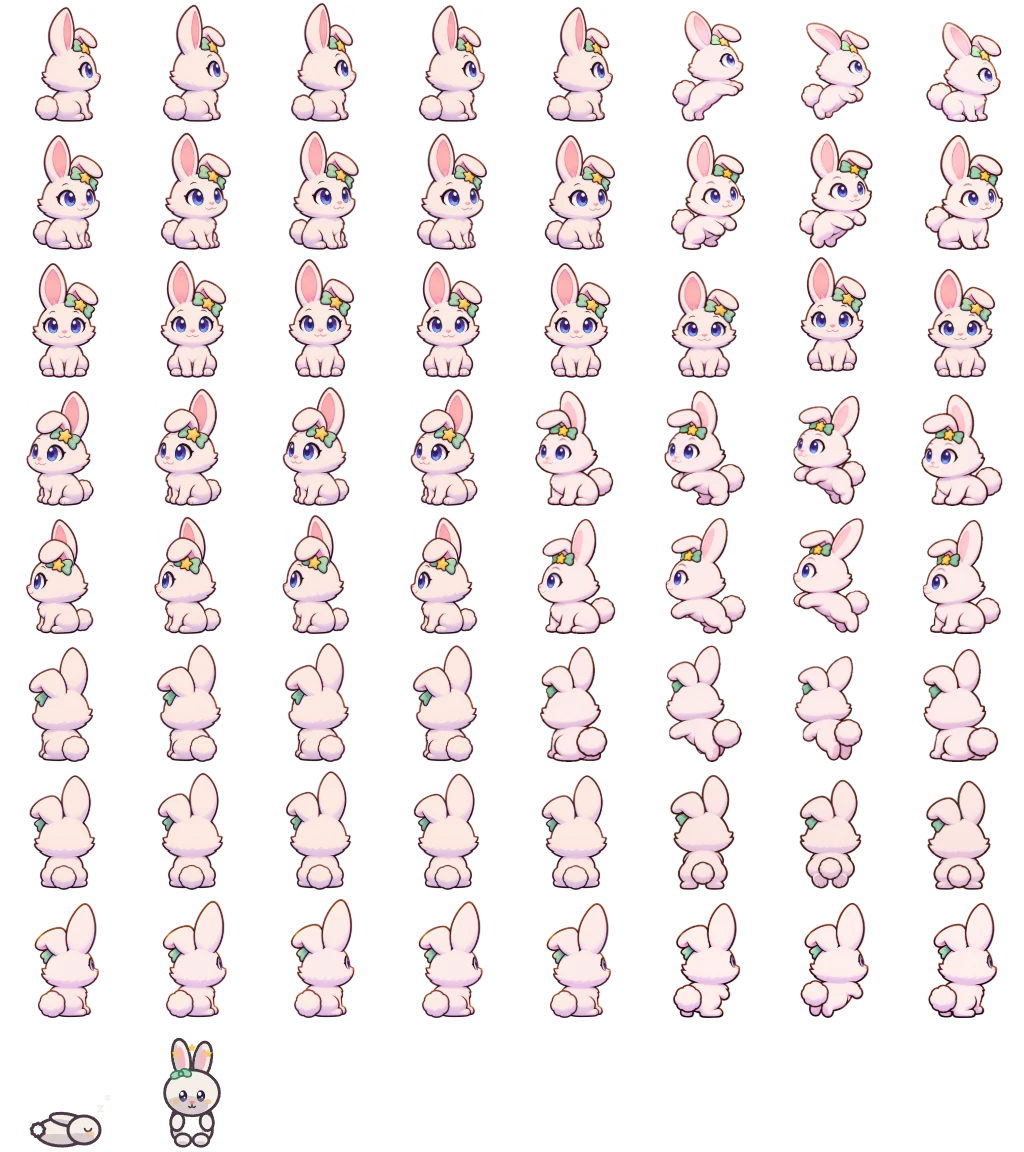
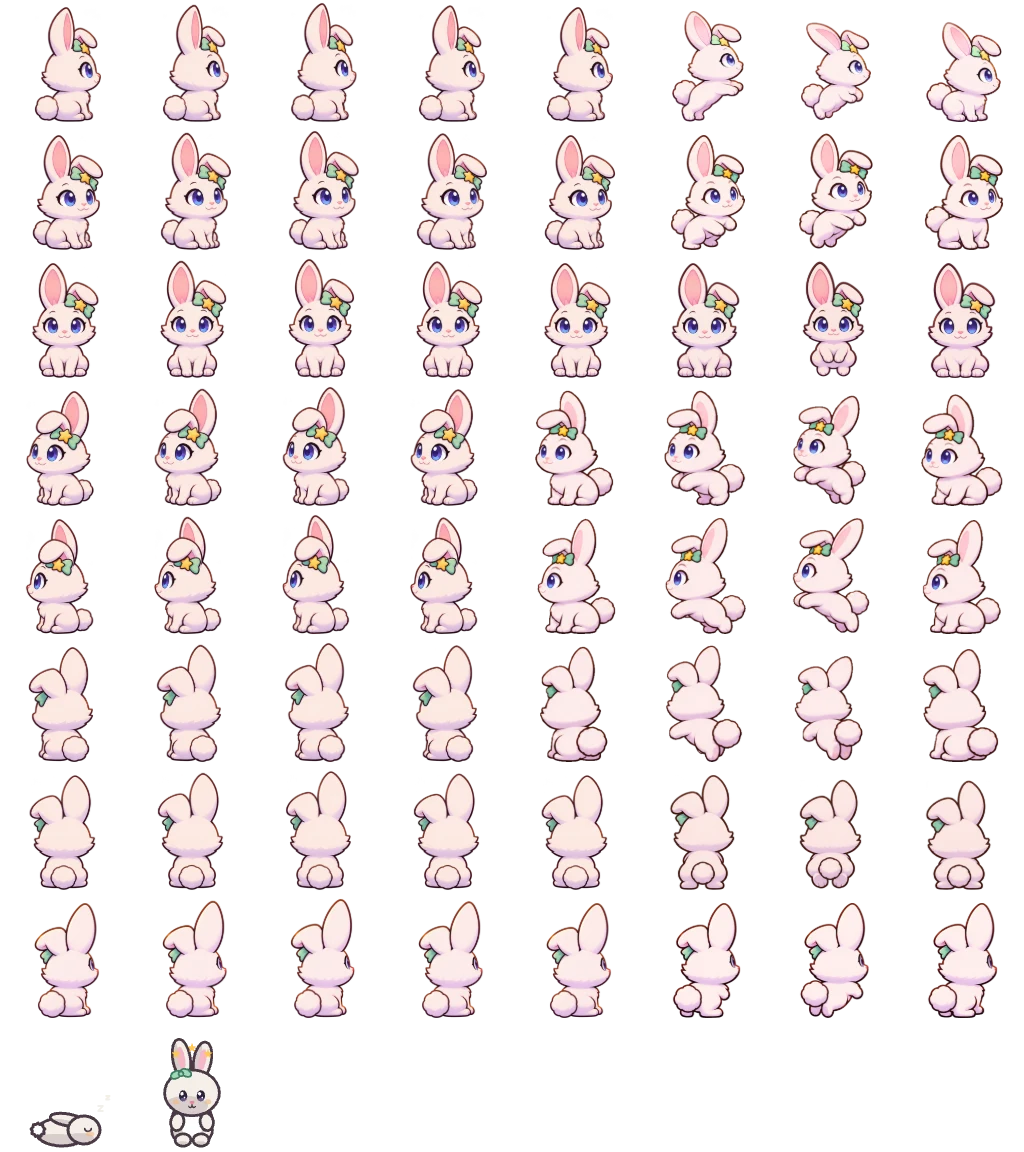
캐릭터 스프라이트: 토리 0° 앞모습 걷기 4장 연결 — 임시 깡충 해제, 토리 걷기 8방향 모두 받은 그림
- ChatGPT 15:36 다시 그림(눈 한 겹 · tori_eye_fix RESULT: ALL OK), 기획 세션 15:50 통과 → Tori_Walk_8D_4Frames_Pack/000_front/
- 점검: f01 = 대기(바이트까지), 눈동자 덩이 2, 눈 높이 292~298, 발끝 494~495(f03 6 뜸), 귀 끝 42~48, 리본 보는 쪽 오른쪽
- tori-8dir 남쪽 걷기 칸 20~23, 트라이얼 390×844 남쪽 걷기 확인, 콘솔 오류 0, 코드 변경 없음
- 받는 폴더 _incoming 정리(얼굴 확인 그림은 sketches로), 점검 기록 notes/000_front_claude_check_26-1124.md, CLAUDE.md·스킬 visual-audio·결정 기록
- 받은 편지 1550 · 기획 세션 15:50 기록(order-art-connect · review-log) 함께

Claude-Session: https://claude.ai/code/session_01HrPbr5mJU6i3pPUacduwos

Changed region(s): [[0.9062, 0.2188, 0.9688, 0.3438], [0.7812, 0.2188, 0.8438, 0.3438], [0.6562, 0.2188, 0.7188, 0.3438]]

diff --git a/CLAUDE.md b/CLAUDE.md
@@ -79,7 +79,7 @@
   - **토리**: 접힌 귀 + 민트 리본(노란 별) = **토리 자신의 왼쪽 귀**(정면 = 보는 쪽 오른쪽, 뒷모습 = 왼쪽). **왼쪽 방향을 뒤집어 만들지 않는다.** 팩 512×512·발끝 496·귀 끝 48, 게임 키 = 귀 끝~발끝 115px(머리 폭 = 루미).
   - **도토**: 대기 팩 512(꼬리 포함 실루엣 가운데로 옴 → 방향별 몸 기준점 `anchorX`), 키 95px(셋 중 가장 작게), 뒤집기 허용.
   - **친구 걷기** = 방향마다 4장, 첫 장 = 그 방향 대기 그림 그대로, 한 바퀴로 이어짐. 박자 f01 f01 · f02 · f03 · f04 f04(토리 6.5칸/초 = 끝까지 밀면 깡충 한 번 약 0.56초, 도토 6칸/초 약 0.6초). 그림 목표: 뜨는 높이 약 6px, 눈 높이 ±6px, 귀 끝 ±15px, 눈은 f01과 같게. **눈 색은 그림 생성으로 고치지 않는다**(다시 그릴 때마다 속눈썹이 바뀜) → 눈 픽셀만 f01 색으로 옮기는 `hand-offs/chatgpt-tori-eye-fix-26-1118-1600/tori_eye_fix.py`를 ChatGPT가 돌려 `RESULT: ALL OK`로.
-  - **받은 상태**(2026-11-18): 토리 대기 8 + 걷기 7방향(45°·90°·135°·180°·225°·270°·315°, 눈 색은 대기와 같게 고침 — 225°·270°·315°는 받은 시트를 Claude가 잘라 맞춤, f01 = 시트 첫 장), **0°만 임시 깡충**(눈 겹침으로 뺌 → 재의뢰서 `hand-offs/chatgpt-tori-front-walk-26-1119-0106/`, 2026-11-19). 90°·270° 머리 출렁임은 목표보다 큼. 점검 `Tori_Walk_8D_4Frames_Pack/notes/eyefix_left_sheet_claude_check.md`. 도토 대기 8 + 걷기 8방향(받은 시트 두 장을 Claude가 잘라 맞춤, 225·270·315°는 뒤집기, f01 = 시트 첫 장 — `Doto_Walk_8D_4Frames_Pack/notes/README_claude.md`). 친구 시트 = `src/art/friendSheet.ts`(`FRIEND_PACKS`), 팩 = `reference/<Tori|Doto>_8_Direction_Pack/`, 점검 기록은 각 팩의 `README_claude.md`·`notes/`.
+  - **받은 상태**(2026-11-18): 토리 대기 8 + 걷기 7방향(45°·90°·135°·180°·225°·270°·315°, 눈 색은 대기와 같게 고침 — 225°·270°·315°는 받은 시트를 Claude가 잘라 맞춤, f01 = 시트 첫 장), **0° 앞모습 걷기 = 2026-11-24 ChatGPT 다시 그림**(재의뢰서 `hand-offs/chatgpt-tori-front-walk-26-1119-0106/` 그대로, 눈 한 겹·`tori_eye_fix.py` RESULT: ALL OK, 기획 세션 15:50 통과 — 이제 8방향 모두 받은 그림). 90°·270° 머리 출렁임은 목표보다 큼. 점검 `Tori_Walk_8D_4Frames_Pack/notes/eyefix_left_sheet_claude_check.md`. 도토 대기 8 + 걷기 8방향(받은 시트 두 장을 Claude가 잘라 맞춤, 225·270·315°는 뒤집기, f01 = 시트 첫 장 — `Doto_Walk_8D_4Frames_Pack/notes/README_claude.md`). 친구 시트 = `src/art/friendSheet.ts`(`FRIEND_PACKS`), 팩 = `reference/<Tori|Doto>_8_Direction_Pack/`, 점검 기록은 각 팩의 `README_claude.md`·`notes/`.
 - **적**: 호스틸 박쥐 `bat`·웨어울프 `werewolf`·뱀파이어 `vampire` / 잃어버린 주민 개구리 `frog`·고슴도치 `hedgehog`·레서판다 `redpanda` / 패시브 올빼미 `owl`·나방 `moth`·반딧불이 `firefly` / 빛을 잃은 친구 `tori-lost`·`doto-lost` / 보스 노월 `witch`. 빛을 잃은 모습 = 보랏빛 눈의 검은 털뭉치.
 - **아이템**(`items.json`): 바람 깃털 `wind_feather` · 별 목걸이 `star_necklace` · 반딧불 병 `firefly_jar` · 황금 도토리 `golden_acorn` · 빛의 부적 `light_charm`.
 - 빠진 것: 바루·몽이 등 옛 캐릭터, 장착물, 시너지·대광원, 손에 든 등불, 여우·삵.
@@ -91,7 +91,7 @@
 - **테스트**(홈): 고르기 창 = 트라이얼(루미·토리·도토 칸, 잠긴 친구도 — 그 판에서만) + 튜토리얼 + '밤 n 체험'(1·3·6·9·10, 그 밤의 평균 빛 레벨 ★1·6·8·9·10으로 시작 — 밤 10은 토리·도토를 구한 것으로 쳐 노월 확정, 테스트 판에만, 맵 고르기). 테스트 판은 진행·지난 밤들에 남지 않는다.
 - **HUD**: 위 = 달·"밤 {n} · mm:ss"·진행 바·점수(런 누적)·콤보·★레벨·✦별가루. 아래 = 하트·HP·LP('HP'·'LP' 글자)·광원 HP·켠 등불 수·일시정지. 17:9보다 좁은 가로는 판을 바닥 가운데·스틱을 위로, 폰 가로는 스틱을 안쪽으로. 화면 밖 적 = 라벤더 화살표, 꺼진 등불·위험·빛을 잃은 친구 = 노란 화살표. 판 위(2026-11-24): 맞은 적 발밑 **빛 게이지**(호스틸·잃어버린 주민만, HP가 남을 때 1.2초, 받은 빛만큼 호박빛이 차오름 — `game.json enemyGauge`) · 하트 1 + HP ≤ 50%면 루미 발밑 **위험 링**(EMBER 숨쉬기, 무적 중 끔 — `dangerRing`) · 주인공 머리 위 HP는 두지 않음.
 - **아트**: "어두운 밤, 따뜻한 빛" — 남색 + 호박빛, 작은 동물들의 밤 마을(어두운 겹·켜진 겹을 빛 마스크로). 공간감 기준 「달빛 숲의 등불지기 고양이」(`reference/ChatGPT-Images/`). 분위기 참고 Stray·OneShot, Cult of the Lamb 2.5D, Undertale 자비, 브롤스타즈 조작·맵.
-- **그림 규칙**: 실제 그림 = ChatGPT, 그때까지 Claude 임시 코드 그림(`src/art/*` → `npm run assets`), ChatGPT 그림이 오면 같은 키로 교체. **받은 것(2026-11-24 ChatGPT, 각 팩 `README_claude.md`)**: 행렬 패시브 셋 — 올빼미(걷기 옆·앞·뒤 각 4, 6칸/초) · 나방·반딧불이(나는 종: 날갯짓 옆 4, 8칸/초, 몸 가운데 앵커), 웅크림 = 정면 한 장 전 방향 공용·뒤집지 않음, 도망 = 옆 2장 가로 부호로 뒤집기(올빼미·반딧불이 8 · 나방 6칸/초) — `art-src/enemies/<id>.*`·`<id>-cower`·`<id>-flee` · 노월 두 모습(`witch`·`witch-angry` 0~3 대기·4~5 시전·6 진정 공용, 진정 순간 부활 빛기둥 한 번) · UI 아이콘 v3(`public/ui-icons/`, `src/ui/v3Icons.ts` — HUD ✦·★ 선, 아침 요약·상점은 산 것만 채움 `-on`, 두 길 점은 선만) · 2-B 아침 배경(세로·가로, cover — '집으로' 결과도 같은 하늘)·새 지역 카드 B·C·이야기 카드 2·4(`art-src/backgrounds/`) · 2-C 호스틸 셋 — 박쥐(두 모습 — 돌아갈 때 `bat-true`로 제자리 교체, 몸을 돌리지 않고 가로로만 뒤집음)·웨어울프(앞·뒤 ±2px 출렁임)·뱀파이어(칸 96, 받은 그림의 몸 자리를 Claude가 눈 기준으로 옮긴 사본) · 중앙 광원(밝음·낮음·꺼짐 = 칸 0·1·2) · 등불 스테이션(켜짐·약함·꺼짐, 바닥 = 기준점) · 스폰 아이템 아이콘 5종(바닥·HUD·선택 화면 같은 그림) · 잃어버린 주민 셋 두 모습(옆·앞·뒤 모두 — 개구리 앞·뒤 11-24 15:4x, 빛을 잃은 뒷모습은 라벤더 외곽 빛 수정본) — 2-C 팩은 `ArtSpec.register: 'canvas'`(캔버스 앵커 그대로). 홍보 키 비주얼 `reference/Key_Visual_v3/`는 게임에 넣지 않음. 격자 소품(2026-11-24 15:4x, `reference/Map_Props_Pack/` — 바위·술통·집·건초·풀숲·울타리 테마 셋 + 강·다리 조각, 없는 테마는 빌려 색조, `src/art/props.ts`·`MapProps.ts`). 아직 임시(코드 그림 = 폴백, 오는 대로 교체): 토리 앞모습(0°) 걷기(임시 깡충 — ChatGPT 재의뢰 11-24 15:07, 15:36 도착·미리 잼 통과, 기획 검토 대기)·바닥(연결 중)·이야기 카드 1·3·5·6(만들지 않음 — 일괄 지시서). 연결 지시는 `docs/plan/order-art-connect-26-1124.md`에 쌓임. **쓰러짐 = 잠듦**(2026-11-24): X 눈 칸 쓰지 않음, 잠든 모습 = ChatGPT `reference/Sleep_Pack/`(11-24 도착, `src/art/sleepSheet.ts`가 8방향 시트와 같은 축척으로 — 루미·도토는 쓰러진 방향대로 뒤집기, 토리는 안 뒤집음, 그림이 없으면 대기 그림을 눕혀 흐리게), **'z' 같은 글자는 띄우지 않는다**(라이언). 그림 마감 없음(8절 마감 지침). v3 브리프 이름 ↔ 게임 자리 = `NIGHT_RUN.md` 13절 끝.
+- **그림 규칙**: 실제 그림 = ChatGPT, 그때까지 Claude 임시 코드 그림(`src/art/*` → `npm run assets`), ChatGPT 그림이 오면 같은 키로 교체. **받은 것(2026-11-24 ChatGPT, 각 팩 `README_claude.md`)**: 행렬 패시브 셋 — 올빼미(걷기 옆·앞·뒤 각 4, 6칸/초) · 나방·반딧불이(나는 종: 날갯짓 옆 4, 8칸/초, 몸 가운데 앵커), 웅크림 = 정면 한 장 전 방향 공용·뒤집지 않음, 도망 = 옆 2장 가로 부호로 뒤집기(올빼미·반딧불이 8 · 나방 6칸/초) — `art-src/enemies/<id>.*`·`<id>-cower`·`<id>-flee` · 노월 두 모습(`witch`·`witch-angry` 0~3 대기·4~5 시전·6 진정 공용, 진정 순간 부활 빛기둥 한 번) · UI 아이콘 v3(`public/ui-icons/`, `src/ui/v3Icons.ts` — HUD ✦·★ 선, 아침 요약·상점은 산 것만 채움 `-on`, 두 길 점은 선만) · 2-B 아침 배경(세로·가로, cover — '집으로' 결과도 같은 하늘)·새 지역 카드 B·C·이야기 카드 2·4(`art-src/backgrounds/`) · 2-C 호스틸 셋 — 박쥐(두 모습 — 돌아갈 때 `bat-true`로 제자리 교체, 몸을 돌리지 않고 가로로만 뒤집음)·웨어울프(앞·뒤 ±2px 출렁임)·뱀파이어(칸 96, 받은 그림의 몸 자리를 Claude가 눈 기준으로 옮긴 사본) · 중앙 광원(밝음·낮음·꺼짐 = 칸 0·1·2) · 등불 스테이션(켜짐·약함·꺼짐, 바닥 = 기준점) · 스폰 아이템 아이콘 5종(바닥·HUD·선택 화면 같은 그림) · 잃어버린 주민 셋 두 모습(옆·앞·뒤 모두 — 개구리 앞·뒤 11-24 15:4x, 빛을 잃은 뒷모습은 라벤더 외곽 빛 수정본) — 2-C 팩은 `ArtSpec.register: 'canvas'`(캔버스 앵커 그대로). 홍보 키 비주얼 `reference/Key_Visual_v3/`는 게임에 넣지 않음. 격자 소품(2026-11-24 15:4x, `reference/Map_Props_Pack/` — 바위·술통·집·건초·풀숲·울타리 테마 셋 + 강·다리 조각, 없는 테마는 빌려 색조, `src/art/props.ts`·`MapProps.ts`). 토리 앞모습(0°) 걷기(11-24 15:5x — 캐릭터 스프라이트 빈자리 없음). 아직 임시(코드 그림 = 폴백, 오는 대로 교체): 바닥(연결 중)·이야기 카드 1·3·5·6(만들지 않음 — 일괄 지시서). 연결 지시는 `docs/plan/order-art-connect-26-1124.md`에 쌓임. **쓰러짐 = 잠듦**(2026-11-24): X 눈 칸 쓰지 않음, 잠든 모습 = ChatGPT `reference/Sleep_Pack/`(11-24 도착, `src/art/sleepSheet.ts`가 8방향 시트와 같은 축척으로 — 루미·도토는 쓰러진 방향대로 뒤집기, 토리는 안 뒤집음, 그림이 없으면 대기 그림을 눕혀 흐리게), **'z' 같은 글자는 띄우지 않는다**(라이언). 그림 마감 없음(8절 마감 지침). v3 브리프 이름 ↔ 게임 자리 = `NIGHT_RUN.md` 13절 끝.
 - **둥근 버튼·배지 규칙**: 남색 유리 원(#34396C → #14152E) + 얇은 밝은 테두리 + 굵고 끝이 둥근 선 아이콘(연한 종이색), 켜짐 = 호박 사탕 채움 + 남색 아이콘, 놓으면 부드럽게 제자리(cubic-bezier(0.16, 1, 0.3, 1)). 기준 `.pull-refresh`·`refreshIcon`·`.icon-button`. 알약 버튼(주요 = 호박, 보조 = 어두운 유리), 최소 48px.
 - **팔레트**: NIGHT `#1B1F3B` · DUSK `#2A2F5A` · PREDAWN `#120F24` · DAWN `#F2B880` · AMBER `#FFC857` · MINT `#9ED9B5` · LAVENDER `#A89CD9` · EMBER `#FF8C5A` · PAPER `#F6F1E7` · ASH `#8A8FA8`. 폰트 Pretendard → Noto Sans KR.
 - **늘 어두운 화면**: `color-scheme: only dark`(+ index.html meta) — 브라우저·기기 야간 모드가 색을 바꾸지 않게(2026-11-20). **설정 창**: 낮은 가로(휴대폰)는 위 한 줄에 제목·닫기, 아래는 PC처럼 두 칸(넘치면 위아래로, 글자 px 최소값 16 — 폭 640 아래는 한 칸). 모든 화면에서 배경음악·효과음 슬라이더 왼쪽 끝을 맞추고(글자 칸 5em), 닉네임 칸·버튼은 칸 폭을 넘지 않는다(2026-11-21).

diff --git a/docs/skill/light-defense-game/references/visual-audio.md b/docs/skill/light-defense-game/references/visual-audio.md
@@ -78,7 +78,7 @@
 - 2026-11-18부터 ChatGPT 그림이다: 정지 8방향, 초상, 걷기.
   - 걷기는 방향마다 4장이고, 박자는 f01 f01 · f02 · f03 · f04 f04다.
 - **토리**: 팩 `reference/Tori_8_Direction_Pack/`, 게임 키 115px.
-  - 걷기 7방향이 들어왔다. 0° 앞모습만 대기 그림으로 만든 임시 깡충이다.
+  - 걷기 8방향이 모두 들어왔다(0° 앞모습은 2026-11-24 다시 그린 판 — 눈 한 겹, f02 웅크림 → f03 6px 떠오름 → f04 내려앉음).
   - 박자 6.5칸/초.
   - 리본 귀 때문에 뒤집지 않는다.
 - **도토**: 팩 `reference/Doto_8_Direction_Pack/`, 키 95px, 방향별 몸 기준점 `anchorX`.
@@ -94,7 +94,7 @@
 - 퇴장: 잃어버린 주민은 제 모습으로 중앙 광원 쪽으로 뛰어가며 사라진다. 호스틸은 빛 반대쪽으로 날아가 사라진다.
 - 패시브는 위협적이지 않게, 빛을 피하는 몸짓을 한다.
 - 격자 맵 소품(2026-11-24 15:4x): ChatGPT Map_Props_Pack — 바위·술통·집·건초·풀숲·울타리(light·border·dark) + 강·다리 조각(light, 다른 테마는 빌려 색조). 캔버스 = 칸×96 + 사방 48(집은 위로 96 더)을 칸에 1:1, 그림이 없는 크기는 옛 코드 그림(`src/art/props.ts`·`entities/MapProps.ts`).
-- 아직 Claude의 임시 코드 그림(2026-11-24 소품 연결 뒤): 토리 앞모습(0°) 걷기(임시 깡충 — ChatGPT 재의뢰 중)·바닥(연결 중), 이야기 카드 1·3·5·6(초상·도형 구성, 만들지 않음). 잃어버린 주민 셋(개구리·고슴도치·레서판다)은 옆·앞·뒤 모두 ChatGPT 그림, 빛을 잃은 뒷모습은 라벤더 외곽 빛이 든 수정본.
+- 아직 Claude의 임시 코드 그림(2026-11-24 토리 앞모습 연결 뒤): 바닥(연결 중), 이야기 카드 1·3·5·6(초상·도형 구성, 만들지 않음). 잃어버린 주민 셋(개구리·고슴도치·레서판다)은 옆·앞·뒤 모두 ChatGPT 그림, 빛을 잃은 뒷모습은 라벤더 외곽 빛이 든 수정본.
 - 잃어버린 주민 셋(개구리·고슴도치·레서판다) 옆모습 두 모습은 2026-11-24 ChatGPT 그림(`reference/Lost_Pack/`) — 캔버스 앵커 그대로(개구리 공중 칸이 땅에 붙지 않게), 제 모습은 빛을 잃은 모습 축척(구출 순간 제자리 교체). 코드 그림은 폴백으로 남긴다(그림 일괄 지시서 — 그림 마감 없음, 오는 대로 교체).
 - ChatGPT 그림 적용(2026-11-24 그림 연결, 각 팩 `README_claude.md`): 웨어울프(옆·앞·뒤 걷기 각 4, 8칸/초, 앞·뒤 걷는 동안 ±2px 출렁임) · 박쥐 두 모습(날갯짓 옆 4, 몸 가운데 앵커, 빛을 받아 돌아갈 때 되돌아온 모습으로 제자리 교체) · 중앙 광원(밝음·낮음·꺼짐 3칸, 광도 4단계는 둘레 빛 크기) · 뱀파이어(날갯짓 옆 4, 칸 96, 받은 그림의 몸 자리를 눈 기준으로 옮긴 사본) · 등불 스테이션(켜짐·약함·꺼짐, 바닥 = 기준점) · 스폰 아이템 아이콘 5종(남색 굵은 선 + 제 색, 바닥·HUD·선택 화면 같은 그림). 2-C 팩은 `ArtSpec.register: 'canvas'`로 캔버스 앵커를 그대로 지킨다.
 - ChatGPT 그림 적용(2026-11-24, 각 팩 `README_claude.md`): 나방·반딧불이(나는 종 — 날갯짓 옆 4장 8칸/초·몸 가운데 앵커·가로 부호로 뒤집기, 웅크림 정면 공용, 도망 2장 나방 6·반딧불이 8칸/초, 칸 64·48px) · 노월(시트 `witch`·`witch-angry` 0~3 대기·4~5 시전·6 진정 공용, 진정 순간은 말풍선 + 부활 빛기둥 한 번) · UI 아이콘 v3(`public/ui-icons/`, HUD ✦·★ 선, 아침 요약·상점은 산 것만 채움, 두 길 점 선만) · 올빼미(행렬 패시브) · 2-B 아침 배경(`morning`·`morning-wide`, cover) · 새 지역 카드(`region-border`·`region-dark`) · 이야기 카드 2·4(`story-02-source`·`story-04-voices`, 16:9 — 글 자리 그대로). 홍보 키 비주얼 `reference/Key_Visual_v3/`는 게임에 넣지 않음 — 걷기 옆·앞·뒤 각 4장(옆은 오른쪽, 왼쪽은 뒤집기) · 웅크림 정면 1장(전 방향 공용, 뒤집지 않음, 겁먹은 눈) · 도망 옆 2장(가로 부호로 뒤집기, 8칸/초). 칸 72px·몸 약 58px.

diff --git a/hand-offs/art-master-order-26-1124-1000/review-log.md b/hand-offs/art-master-order-26-1124-1000/review-log.md
@@ -1,5 +1,13 @@
 # 그림 검토 기록 (claude.ai 기획 세션 → ChatGPT) — 통합 지시서 순서대로, 위가 최신 (시각은 KST, yyyy-mm-dd hh:mm)
 
+## 2026-11-24 15:50 — 토리 앞모습(0°) 걷기 4장(11-19 재의뢰, 15:36 납품): **통과 — 연결 승인**
+
+- `reference/Tori_8_Direction_Pack/Tori_Walk_8D_4Frames_Pack/_incoming/000_front/tori_walk_000_front_f01~f04.png` — 512×512 투명. f01 = 대기 그림 그대로(바이트 동일). **눈**: 네 장 모두 눈동자 덩이 2, 얼굴 확대에서 윤곽 한 겹(11-18 판의 두 겹 없음), 눈 색 스크립트 "RESULT: ALL OK". 눈 높이 297·298·292·298(±6), 귀 끝 48·48·42·48(±15), 발끝 f02·f04 495, f03 489(6px 뜸 = 발 밑 틈), 가운데 255~256, 떨어진 조각 0. 리본·접힌 귀는 보는 쪽 오른쪽(x 304~309) — 뒤집지 않음. 동작: f02 웅크림(넓고 낮게) → f03 떠오름(몸 가늘어짐·앞발 모음) → f04 내려앉음 — 앞에서도 깡충이 읽힘. 실루엣 겹침 f01 대비 0.95·0.88·0.94(걷기 칸이라 적정). 게임 크기 115px에서도 눈이 한 겹으로 보임. Claude Code 15:40 사전 측정과 같은 결론. **통과.**
+- `_art-check.png`(15:40)는 Claude Code 점검 그림 — ChatGPT 것이 아니며 그대로 두면 됨.
+- 적 빛 게이지·위험 링 캡처(15:31) 확인: 클라이맥스 9마리에서도 발밑 36×4 막대가 그림·말풍선을 가리지 않고 소음 아님 — 값 그대로(라이언 플레이 소감 뒤 최종). 위험 링은 밝은 광장 바닥에서 은은한 편 — 그대로 두고 라이언 확인 항목.
+
+이것으로 **캐릭터 스프라이트 빈자리 없음.** ChatGPT 할 일 없음.
+
 ## 2026-11-24 14:49 — 바닥 타일 이음새 수정본 3장 · 이야기 카드 3(story-02-source) 다시 그린 판: **둘 다 통과**
 
 - **바닥 타일** `reference/Ground_Pack/` 3장(14:14 수정본) — 384×384 불투명, 네 변 맞물림(끝 픽셀 차 0). 가장자리 16px 띠 밝기가 가운데 대비 light −0.5~+2.1% · border −1.0~+0.3% · dark −1.0~+1.7%(13:57 의뢰 기준 ±2%, light 왼쪽 띠 2.1%는 허용). 세로 1px 선 없음. 거울 대칭: 이음새에서 12~16px 안쪽까지만 대칭 흔적이 남고 그 밖은 자연 무늬(33px에서 상관 0.57~0.68 = 보통 돌 무늬 수준) — 2×2로 깔아 보면 격자·거울 무늬·어두운 띠 모두 안 보임. light 타일 4분면 밝기 편차 ±2.8%로 밝은 얼룩 반복도 사라짐. **통과 — 바닥 연결 때 이 수정본 사용.** (Claude Code 14:20 측정과 일치)

diff --git a/docs/DECISION_LOG.md b/docs/DECISION_LOG.md
@@ -226,3 +226,4 @@
 - 2026-11-24 · 15:03 적 빛 게이지(라이언 확정): 호스틸·잃어버린 주민만(패시브·노월·어둠 구슬 제외), 빛에 맞아 HP가 남을 때 발밑에 36×4 둥근 막대가 1.2초 + 0.3초 페이드, 채움 = 1 − HP/maxHP(차오름, 숫자 없음), 바탕 NIGHT 0.6 · 채움 AMBER (`game.json enemyGauge`, `systems/lightGauge.ts`·`entities/enemies/LightGauge.ts`). 정한 세부(제안): 나는 종의 발밑 = 땅 그림자 자리 + 6(그림 칸 절반은 투명 여백까지 들어가 몸에서 떨어져 보였음), 게이지 갱신은 `EnemyField.step`이 모든 적에(기다리는 친구·행렬은 step을 일찍 끝냄), 막대는 적 컨테이너 밖 월드에(박쥐 코드 그림이 몸을 돌려도 눕지 않게). 배포판 줄인 Phaser에는 `Phaser.GameObjects.Events`가 없어 destroy 이벤트는 문자열로.
 - 2026-11-24 · 캐릭터 스프라이트: 개구리 앞·뒤 16장(빛을 잃은·제 모습 × 앞·뒤 × 4, f01 수정본 — 기획 세션 통과) 연결 → `frog-dark`·`frog-true` 칸 4~7·8~11(코드 변경 없음, poseFallback 대신 실제 그림), 빛을 잃은 뒷모습 라벤더 외곽 빛 수정본(고슴도치·레서판다 각 4장, 개구리는 16장에 포함) 교체. 두 모습 맞춤 ±7px 안, 판 위 앞·뒤·구출 순간 확인, 콘솔 오류 0.
 - 2026-11-24 · 격자 소품 연결(기획 세션 13:14 통과 · 강·다리 수정본 13:33 통과, 라이언 순서대로 캐릭터 스프라이트 뒤): ChatGPT Map_Props_Pack 40장 — 바위·술통·집·건초·풀숲·울타리(테마 light·border·dark) + 강·다리 조각(light) → `art-src/objects/prop-*.png`. 캔버스를 칸에 1:1(사방 48, 집은 위로 96 더), 건초 세로는 90° 돌림, 울타리는 칸마다 조각·양 끝 end·가로 조각 30 올림, 강·다리는 칸마다 이어 붙임(위아래가 강이면 v). 그 테마 그림이 없으면 dark → border → light 순으로 빌려 색조(border `#B9C3E2` · dark `#8E88BC`, 제안). 판정·빛 차단은 격자 그대로. 7개 맵 콘솔 오류 0, `check:maps` 통과.
+- 2026-11-24 · 토리 0° 앞모습 걷기 4장 연결(ChatGPT 15:36 다시 그림 — 눈 한 겹·RESULT: ALL OK, 기획 세션 15:50 통과): `_incoming/000_front/` → `Tori_Walk_8D_4Frames_Pack/000_front/`, 임시 깡충 해제 — 토리 걷기 8방향 모두 받은 그림, 캐릭터 스프라이트 빈자리 없음. 점검 `notes/000_front_claude_check_26-1124.md`.

diff --git a/request-read/to-ClaudeCode/1124-1550-tori-front-walk-pass-connect.md b/request-read/to-ClaudeCode/1124-1550-tori-front-walk-pass-connect.md
@@ -1,0 +1,20 @@
+[Claude Code — 토리 앞모습 걷기 4장 통과 → 연결·배포 · 1513/1531/1537 확인 · 2026-11-24 15:50]
+(생성 2026-11-24 15:50, claude.ai 기획 세션 — 처리한 편지: to-ClaudeAi/1124-1513, 1531, 1537, 1540, 1544(ChatGPT 납품))
+
+■ 파일
+연결할 것  C:\Users\user\light_defense_game\reference\Tori_8_Direction_Pack\Tori_Walk_8D_4Frames_Pack\_incoming\000_front\tori_walk_000_front_f01.png ~ f04.png  (→ 000_front\ 로 옮김)
+참고  C:\Users\user\light_defense_game\request-read\to-ClaudeAi\1124-1544-tori-front-walk-delivery.md  (ChatGPT 완료 편지 — 스크립트 출력 "RESULT: ALL OK")
+참고  C:\Users\user\light_defense_game\hand-offs\art-master-order-26-1124-1000\review-log.md  (15:50 항목)
+참고  C:\Users\user\light_defense_game\docs\plan\order-art-connect-26-1124.md  (15:50 항목 덧붙임)
+
+■ 지시
+1) **토리 앞모습(0°) 걷기 4장 — 기획 검토 통과.** 네 사전 측정(15:40)과 ChatGPT 스크립트 출력(눈 색 4장 OK, 덩이 2, 눈 밖 변경 0)과 내 확인(얼굴 확대 네 장 모두 윤곽 한 겹, 리본 오른쪽, f03 6px 뜸, 게임 크기 115px에서 눈 한 겹)이 같은 결론.
+   _incoming\000_front\ 4장을 Tori_Walk_8D_4Frames_Pack\000_front\ 로 옮겨 연결(임시 깡충 해제) → 트라이얼 토리 남쪽 걷기 캡처 1장(390×844) → check → 배포. _incoming의 face_check·_art-check는 점검 기록으로 그대로 두거나 sketches로.
+   이것으로 캐릭터 스프라이트 빈자리 없음 — 남은 것은 소품 → 바닥뿐.
+2) 1513(구조 보강 ③·②·① 라이브)·1531(적 빛 게이지·위험 링)·1537(개구리 앞·뒤·뒷모습 외곽 빛) 모두 확인. 게이지 클라이맥스 캡처(9마리) 기획 판단: 소음 아님 — 값 그대로. 위험 링은 광장 바닥에서 은은한 편이지만 그대로 두고 라이언 플레이 소감을 기다림. 5)의 세부(나는 종 땅 그림자 자리 +6, 막대를 몸 밖 월드에, EnemyField.step 갱신) 승인.
+3) 순서 그대로: 토리 연결(작음) → 소품 연결(강·다리 포함) → 바닥 3장(14:14 수정본, 세 지역 캡처).
+
+■ 유의
+- ChatGPT에는 통과·대기 편지를 같은 시각에 보냈다. 토리 그림에 손댈 일 없음.
+- 스킬 zip은 라이언이 교체(1513·1531·1537 모두 "zip 다시 올리기 필요" — 다음 배포 뒤 한 번에).
+- 긴급 편지 없음.

diff --git a/request-read/to-ChatGPT-Codex/1124-1550-tori-front-walk-pass.md b/request-read/to-ChatGPT-Codex/1124-1550-tori-front-walk-pass.md
@@ -1,0 +1,17 @@
+[ChatGPT(Codex) — 토리 앞모습 걷기 4장 통과 · 게임 연결은 Claude Code가 · 2026-11-24 15:50]
+(생성 2026-11-24 15:50, claude.ai 기획 세션 — 처리한 편지: to-ClaudeAi/1124-1544-tori-front-walk-delivery.md)
+
+■ 파일
+참고  C:\Users\user\light_defense_game\reference\Tori_8_Direction_Pack\Tori_Walk_8D_4Frames_Pack\_incoming\000_front\tori_walk_000_front_f01.png ~ f04.png  (통과)
+참고  C:\Users\user\light_defense_game\hand-offs\art-master-order-26-1124-1000\review-log.md  (15:50 항목)
+
+■ 판정
+**통과.** f01 = 대기 그림 그대로(바이트 동일). 네 장 모두 눈동자 덩이 2·얼굴 확대에서 윤곽 한 겹(11-18 판의 두 겹 없음), 눈 높이 297·298·292·298, 귀 끝 48·48·42·48, 발끝 f02·f04 495 · f03 489(6px 뜸, 발 밑 틈 보임), 가운데 255~256, 떨어진 조각 0, 리본·접힌 귀는 보는 쪽 오른쪽. 웅크림 → 떠오름 → 내려앉음이 앞에서도 깡충으로 읽힌다. 게임 크기(키 115px)에서도 눈이 한 겹.
+
+■ 지시
+없음. _incoming의 4장은 **Claude Code가** 게임 연결 폴더로 옮긴다 — ChatGPT는 옮기거나 수정하지 말 것. 수정 지시 없음 = 이번 작업 끝.
+`_art-check.png`(15:40)는 Claude Code의 점검 그림이다 — 네 것이 아니니 그대로 두면 된다(삭제·덮어쓰기 안 함, 맞다).
+
+■ 유의
+- 이것으로 캐릭터 스프라이트 빈자리 없음. 라이언이 새로 고를 때까지 대기. 다른 팩 손대지 말 것.
+- 마감 없음 — 오류 없이. 시각은 yyyy-mm-dd hh:mm(KST).

diff --git a/reference/Tori_8_Direction_Pack/Tori_Walk_8D_4Frames_Pack/notes/000_front_claude_check_26-1124.md b/reference/Tori_8_Direction_Pack/Tori_Walk_8D_4Frames_Pack/notes/000_front_claude_check_26-1124.md
@@ -1,0 +1,19 @@
+# 토리 0° 앞모습 걷기 — Claude 점검 (2026-11-24)
+
+받음: ChatGPT 15:36(15:43 다시 저장, 내용 같음) → 받는 폴더 `_incoming/000_front/` → 기획 세션 15:50 통과 → `000_front/`로 옮겨 연결.
+의뢰서: `hand-offs/chatgpt-tori-front-walk-26-1119-0106/order-tori-front-walk.md`. 11-18 판(눈 두 겹)은 `_rejected/000_front_eyes-doubled_26-1118-1537/` 그대로.
+
+| 항목 | 기준 | f01 | f02 | f03 | f04 |
+|---|---|---|---|---|---|
+| f01 = 대기 | 바이트까지 같음 | ✓ | — | — | — |
+| 눈동자 덩이 | 2 | 2 | 2 | 2 | 2 |
+| 눈 높이 | 297 ±6 | 297 | 298 | 292 | 298 |
+| 눈 색 | 대기 #4D479C | #4D479C | #4D489C | #4D489C | #4D489C |
+| 발끝 | 494~496 (f03 약 6 뜸) | 494 | 495 | 489 (6 뜸) | 495 |
+| 귀 끝 | 48 ±15 | 48 | 48 | 42 | 48 |
+| 리본 | 보는 쪽 오른쪽 | 307 | 309 | 304 | 308 |
+| 떨어진 조각 | 0 | 0 | 0 | 0 | 0 |
+
+- ChatGPT `tori_eye_fix.py` 출력: 세 장 모두 눈 밖 변경 0 · 덩이 2 → RESULT: ALL OK.
+- 얼굴 확대(Claude `sketches/tori-front-26-1124-1555/claude-art-check.png` · ChatGPT `chatgpt-face-check.png`): 네 장 모두 눈 윤곽 한 겹.
+- 게임: `tori-8dir` 남쪽 걷기 칸 20~23(박자 f01 f01 · f02 · f03 · f04 f04), 트라이얼 390×844 남쪽 걷기 `sketches/tori-front-26-1124-1555/tori-south-390x844-2.png`(f02 웅크림), 콘솔 오류 0. 코드 변경 없음(임시 깡충은 팩이 있으면 저절로 바뀜).

diff --git a/docs/plan/order-art-connect-26-1124.md b/docs/plan/order-art-connect-26-1124.md
@@ -2,6 +2,11 @@
 
 > 절차는 늘 같다(올빼미 절차): art-check → 자리 → `npm run assets` → 헤드리스 캡처 → 그 폴더 `README_claude.md` → 스킬 `visual-audio.md`·`characters.md` → zip → 보고 맨 위 "zip 다시 올리기 필요". 코드 그림은 폴백으로 유지. 우선순위는 통합 지시서(`hand-offs/art-master-order-26-1124-1000/art-master-order.md`) 4절 — 플레이 소감·밸런스·버그가 먼저.
 
+## 2026-11-24 15:50 — 토리 앞모습(0°) 걷기 4장 통과 → 연결
+
+- `Tori_Walk_8D_4Frames_Pack/_incoming/000_front/` 4장(15:36 저장) 통과 — 눈 한 겹, f01 = 대기 그림, f03 6px 뜸, 리본 오른쪽. `000_front/`로 옮겨 연결(임시 깡충 해제, 코드 변경 없음) → 트라이얼 남쪽 걷기 캡처 → 배포. **캐릭터 스프라이트 빈자리 없음.** 남은 연결: 소품(강·다리 포함) → 바닥 3장(14:14 수정본).
+- 적 빛 게이지·위험 링(15:31 라이브) 캡처 확인 — 값 그대로, 라이언 플레이 소감 뒤 최종.
+
 ## 2026-11-24 14:49 — 바닥 타일 이음새 수정본 3장 통과 → 바닥 연결은 14:14 수정본으로 확정
 
 - **바닥 타일** `reference/Ground_Pack/` 3장(2026-11-24 14:14 저장) 통과 — 띠 밝기 ±2.1% 안, 1px 선 없음, 2×2에서 격자·거울 무늬 없음. 바닥 연결 차례(캐릭터 스프라이트 → 소품 → 바닥)에 이 판으로. 연결 뒤 light/border/dark 판 캡처 각 1장.
